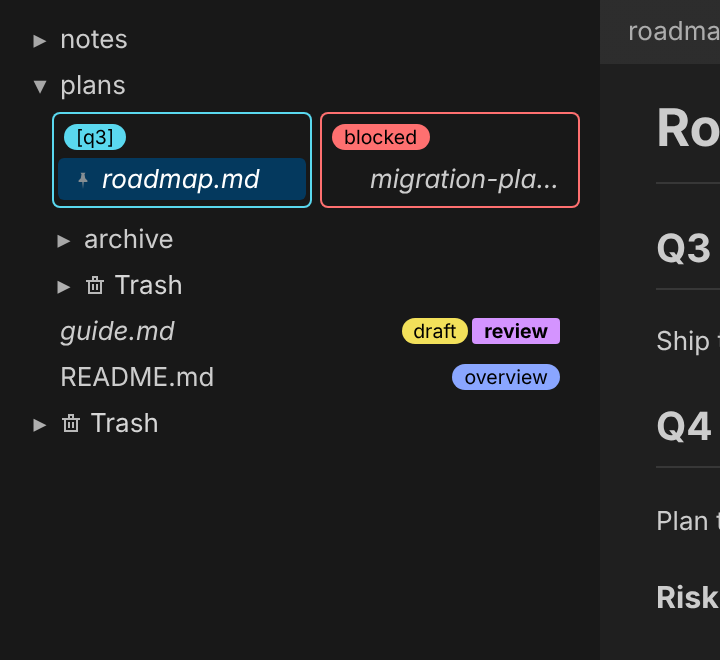
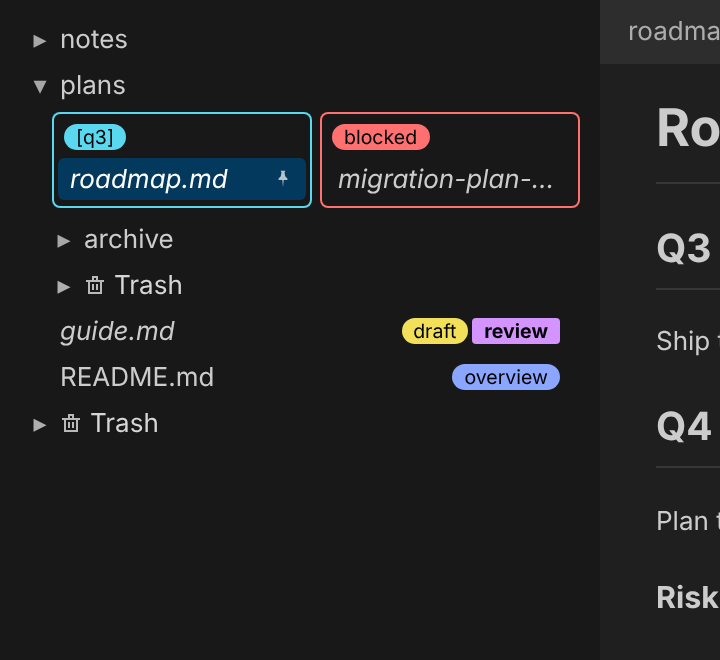
fix(panel): no empty slot before a file's name in a tag bucket
The slot that held the read dot lines a file up with a folder's twisty. A bucket holds
only files, so there it was only padding: a file in a bucket now has none, its pin goes
after its name as a folder's does, and "empty" starts where the names do.

Claude-Session: https://claude.ai/code/session_01GRmFA6iAkEsBtRTgga4DRB

Changed region(s): [[0.4583, 0.2424, 0.7639, 0.303], [0.0917, 0.2424, 0.3972, 0.303]]

diff --git a/media/main.js b/media/main.js
@@ -1145,13 +1145,18 @@
     row.draggable = true;
 
     // A file has no twisty, and its slot is left empty so a file lines up with a folder,
-    // unless the file is pinned: the pin stands in it. A file not read yet has its name in
-    // italics.
+    // unless the file is pinned: the pin stands in it. A bucket holds only files, so there
+    // is nothing to line up with and a file in one has no slot; its pin goes after its name,
+    // as a folder's does. A file not read yet has its name in italics.
     if (node.dir) {
       const twisty = document.createElement("span");
       twisty.className = "twisty";
       twisty.textContent = expanded.has(node.path) ? "▾" : "▸";
       row.appendChild(twisty);
+    } else if (bare) {
+      if (!reads.has(node.path)) {
+        row.classList.add("unread");
+      }
     } else {
       const slot = document.createElement("span");
       slot.className = "slot";
@@ -1175,7 +1180,7 @@
       row.classList.add("colored", "c-" + colors[node.path]);
     }
 
-    if (node.dir && pinned.has(node.path)) {
+    if ((node.dir || bare) && pinned.has(node.path)) {
       const pin = document.createElement("span");
       pin.className = "pin";
       pin.title = "Pinned";

diff --git a/media/main.css b/media/main.css
@@ -2481,7 +2481,7 @@ img.single {
 /* Exactly as tall as a file's row: the same padding and the same clear border above and
    below the line. */
 .bucket-empty {
-  padding: 1px 8px;
+  padding: 1px 6px;
   border-block: 1px solid transparent;
   line-height: var(--tree-row);
   font-style: italic;

diff --git a/README.md b/README.md
@@ -99,7 +99,7 @@ Right click a row, or press `Space`, `Shift+F10` or the menu key on it, for its 
 | Open a file | Click it |
 | Tag a file | `Ctrl`+click it, **Tags…** in its menu, or `+` in the file bar |
 | Colour a file or folder | **Colour…** in its menu. Colours come from the active theme. Picking the colour it already has takes it off. |
-| Pin a file or folder to the top of its folder | **Pin to top** in its menu. A pinned file shows a pin in front of its name. |
+| Pin a file or folder to the top of its folder | **Pin to top** in its menu. A pinned file shows a pin in front of its name, or after it in a tag bucket. |
 | Group a folder's files by tag | **Tag buckets…** in the folder's menu, or in a root folder's; see [Tag buckets](#tag-buckets) |
 | Open a file in the system browser | **Open in browser** in its menu |
 | New file or folder | **New file…** / **New folder…** in a folder's menu, or in a root folder's menu |

diff --git a/.github/releases/v0.14.0.md b/.github/releases/v0.14.0.md
@@ -13,7 +13,7 @@ Several root folders, each under a divider; buckets for the root folder; italic 
 - A new option sets the size of the buckets' headings, 50% to 250% of the tree's text.
 
 **Tree.**
-- The dot before a file is gone. A file not read yet has its name in italics; a pinned file's pin stands where the dot was.
+- The dot before a file is gone. A file not read yet has its name in italics; a pinned file's pin stands where the dot was. In a tag bucket the empty slot is gone too, so file names start at the bucket's edge, and a pin goes after the name.
 - In a file's or folder's colour menu, picking the colour it already has takes it off.
 
 **Links.**
